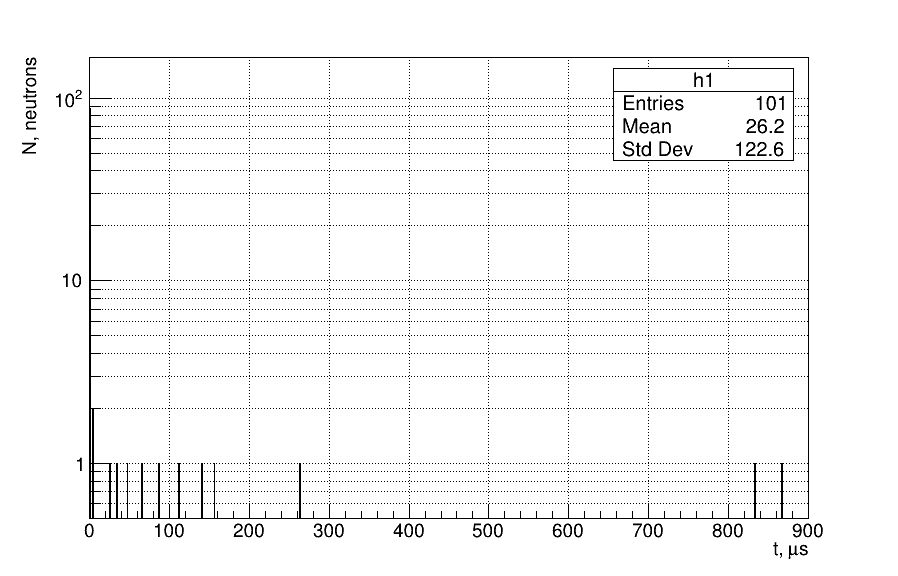
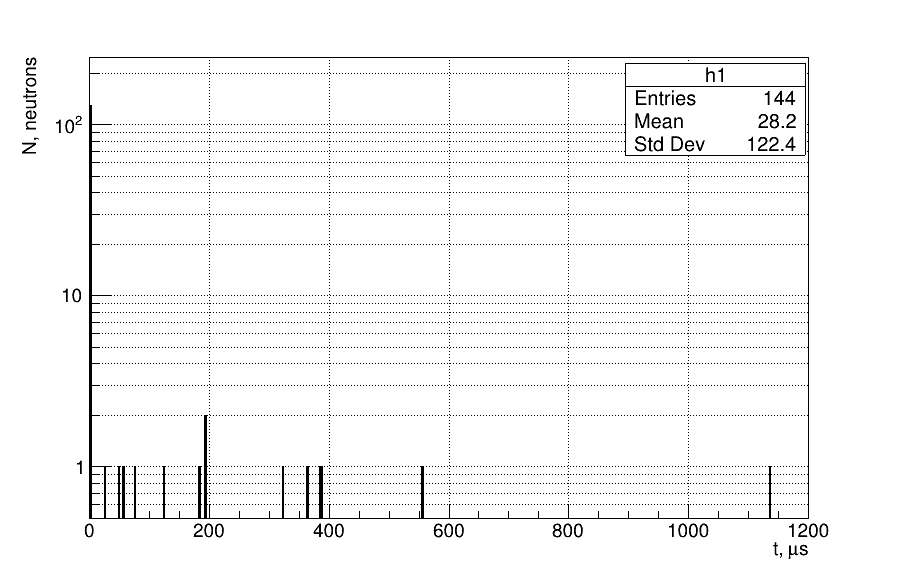
mpi

diff --git a/res/merge.C b/res/merge.C
@@ -2,50 +2,83 @@
 
 void merge() {
 
-    double time1, time2, time3;
+    double time1, time2, time3, time4, time5;
+    double energy1, energy2, energy3, energy4, energy5;
 
-    TFile* file = new TFile("msc-230_20_11.root");
+    TFile* file = new TFile("energy/msc-230_20_1.root");
     TTree* tr = (TTree*)file->Get("neutron");
     tr->SetBranchAddress("t", &time1);
+    tr->SetBranchAddress("e", &energy1);
     int entr1 = tr->GetEntries();
     
 
-    TFile* file2 = new TFile("msc-230_50_1.root");
+    TFile* file2 = new TFile("energy/msc-230_20_2.root");
     TTree* tr2 = (TTree*)file2->Get("neutron");
     tr2->SetBranchAddress("t", &time2);
+    tr2->SetBranchAddress("e", &energy2);
     int entr2 = tr2->GetEntries();
 
-    TFile* file3 = new TFile("msc-230_50_2.root");
+    TFile* file3 = new TFile("energy/msc-230_50.root");
     TTree* tr3 = (TTree*)file3->Get("neutron");
     tr3->SetBranchAddress("t", &time3);
+    tr3->SetBranchAddress("e", &energy3);
     int entr3 = tr3->GetEntries();
 
-    TFile fout("msc-230r.root","recreate");
+    TFile* file4 = new TFile("energy/msc-230_50e_2.root");
+    TTree* tr4 = (TTree*)file4->Get("neutron");
+    tr4->SetBranchAddress("t", &time4);
+    tr4->SetBranchAddress("e", &energy4);
+    int entr4 = tr4->GetEntries();
+
+    TFile* file5 = new TFile("energy/msc-230_20_3.root");
+    TTree* tr5 = (TTree*)file5->Get("neutron");
+    tr5->SetBranchAddress("t", &time5);
+    tr5->SetBranchAddress("e", &energy5);
+    int entr5 = tr5->GetEntries();
+
+    TFile fout("energy/msc-230r.root","recreate");
     TTree trR("T","");
 
     Float_t nt;
+    Float_t ne;
     trR.Branch("nt",&nt,"nt/F");
+    trR.Branch("ne",&ne,"ne/F");
 
     for (int i = 0; i < entr1; i++) {
         tr->GetEntry(i);
         nt = time1; // mus
+        ne = energy1;
         trR.Fill();
     }
     
     for (int i = 0; i < entr2; i++) {
         tr2->GetEntry(i);
         nt = time2; // mus
+        ne = energy2;
         trR.Fill();
     }
 
     for (int i = 0; i < entr3; i++) {
         tr3->GetEntry(i);
         nt = time3; // mus
+        ne = energy3;
+        trR.Fill();
+    }
+
+    for (int i = 0; i < entr4; i++) {
+        tr4->GetEntry(i);
+        nt = time4; // mus
+        ne = energy4;
+        trR.Fill();
+    }
+
+    for (int i = 0; i < entr5; i++) {
+        tr5->GetEntry(i);
+        nt = time5; // mus
+        ne = energy5;
         trR.Fill();
     }
 
     trR.Write();
-
-
 
 }

diff --git a/res/plot.C b/res/plot.C
@@ -3,29 +3,62 @@
 #include <fstream> 
 
 void plot() {
-    TFile *fe = new TFile("msc-230r.root");
+    TFile *fe = new TFile("energy/msc-230r.root");
 
     TCanvas* c1=new TCanvas("c1","show profile", 900, 600);
     TTree *trN = (TTree*)fe->Get("T");
-    Float_t time;
+    Float_t time, energy;
     trN->SetBranchAddress("nt", &time);
+    trN->SetBranchAddress("ne", &energy);
     int entr = trN->GetEntries();
     
-    TH1* h1 = new TH1F("h1", "", 1000, 46.0, 80);
+    TH1* h1 = new TH1F("h1", "", 1000, 47, 52);
     h1->GetYaxis()->SetTitle("N, neutrons");
     h1->GetXaxis()->SetTitle("t, ns");
     h1->SetFillColor(1);
     h1->SetLineColor(1);
+
+    TH1* h2 = new TH1F("h2", "", 500, 0, 220);
+    h2->GetYaxis()->SetTitle("N, neutrons");
+    h2->GetXaxis()->SetTitle("E, MeV");
+    h2->SetFillColor(1);
+    h2->SetLineColor(1);
+
+    TH2* h3 = new TH2F("h3","",100,0,0.1,100,0,220);
+
+    auto gr = new TGraph();
+    gr->SetMarkerStyle(7);
+    gr->SetMarkerSize(2);
+    gr->GetYaxis()->SetTitle("E, MeV");
+    gr->GetXaxis()->SetTitle("t, ns");
     
     
     for (int i = 0; i < entr; i++) {
         trN->GetEntry(i);
-        //std::cout << time << std::endl;
+        std::cout << time*1000 << " " << energy << std::endl;
         h1->Fill(time*1000);
+        h2->Fill(energy);
+        h3->Fill(time, energy);
+        //if (time < 0.1) {
+            gr->AddPoint(time, energy);
+        //}
     }
     //gPad->SetLogy();
     gPad->SetGridx();
     gPad->SetGridy();
 
     h1->Draw();
+
+    TCanvas* c2 = new TCanvas("c2","show profile", 900, 600);
+    gPad->SetGridx();
+    gPad->SetGridy();
+    h2->Draw();
+
+    TCanvas* c3 = new TCanvas("c3","show profile", 900, 600);
+    //h3->Draw("COL");
+    gr->Draw("AP");
+    gPad->SetGridx();
+    gPad->SetGridy();
+    //gPad->SetLogy();
+    //gPad->SetLogx();
 }

diff --git a/msc-230.cc b/msc-230.cc
@@ -17,7 +17,9 @@ int main(int argc, char** argv) {
     }
 
     CLHEP::HepRandom::setTheEngine(new CLHEP::MTwistEngine); 
-    CLHEP::HepRandom::setTheSeed((unsigned)clock()); 
+    auto seed = (unsigned)clock();
+    G4cout << seed << G4endl;
+    CLHEP::HepRandom::setTheSeed(seed); 
 
     auto runManager = G4RunManagerFactory::CreateRunManager();
 
@@ -46,6 +48,8 @@ int main(int argc, char** argv) {
         ui->SessionStart();
         delete ui;
     }
+
+    G4cout << seed << G4endl;
 	
     delete visManager;
     delete runManager;

diff --git a/res/proton.C b/res/proton.C
@@ -9,7 +9,7 @@ void proton() {
     h1->SetFillColor(1);
     h1->SetLineColor(1);
     
-    Float_t entr = 120000000;
+    Float_t entr = 160000000;
     
     for (int i = 0; i < entr; i++) {
         h1->Fill(0.00);

diff --git a/processing/merge.C b/processing/merge.C
@@ -1,0 +1,3 @@
+void merge() {
+    
+}
